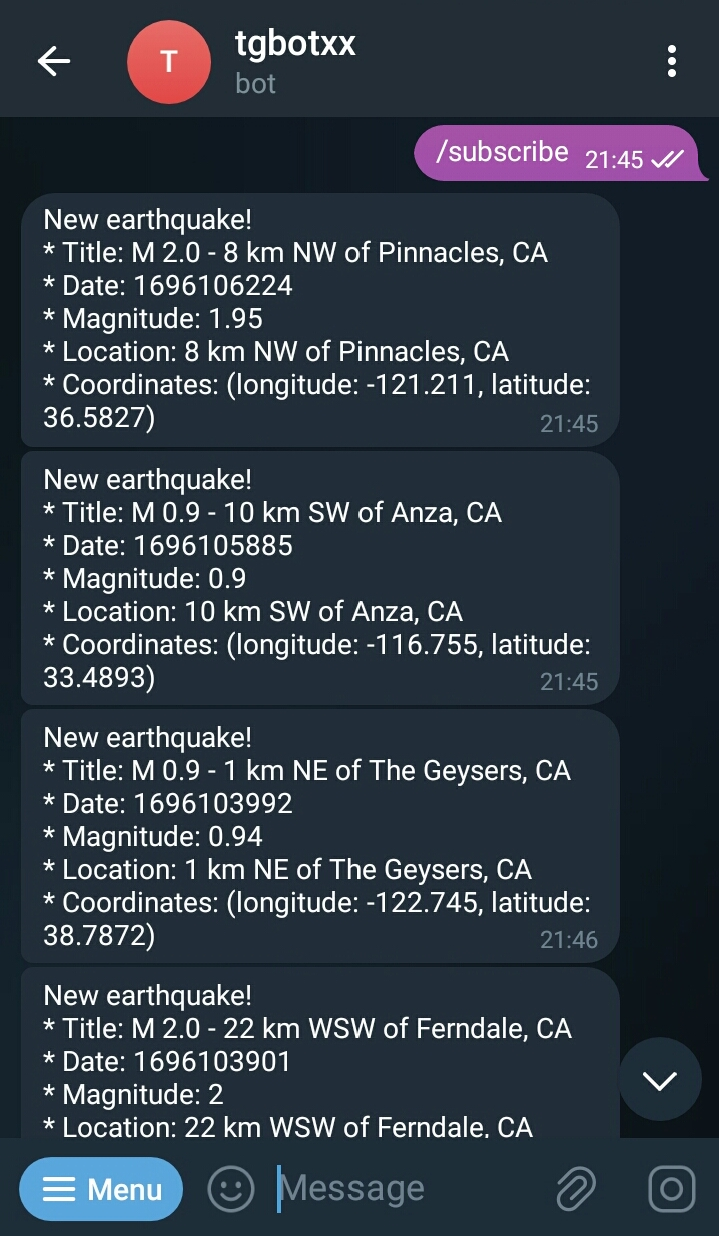
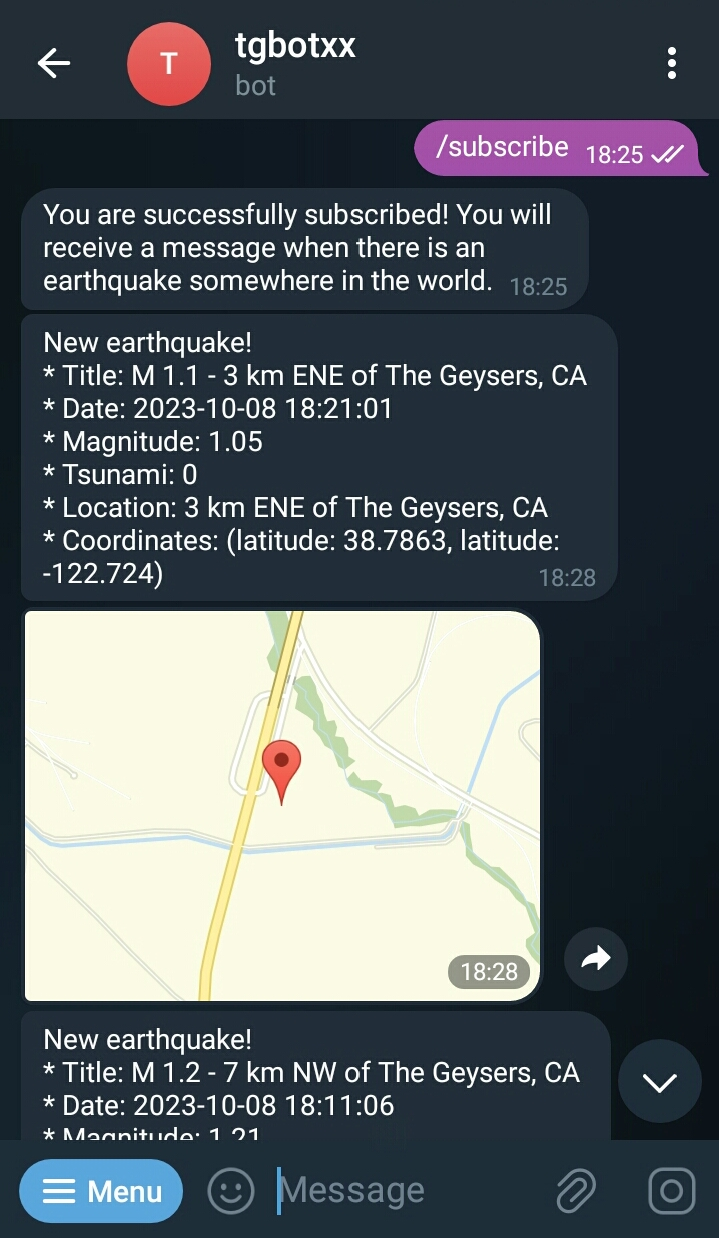
updated examples README.md updated manual_tests sendLocation coords

diff --git a/examples/UrlShortenerBot/main.cpp b/examples/UrlShortenerBot/main.cpp
@@ -1,50 +1,46 @@
-#include <tgbotxx/tgbotxx.hpp>
-#include <iostream>
 #include <cpr/cpr.h>
 #include <csignal>
+#include <iostream>
+#include <regex>
+#include <tgbotxx/tgbotxx.hpp>
 using namespace tgbotxx;
 
 class UrlShortenerBot : public Bot {
-public:
-  UrlShortenerBot(const std::string &token) : Bot(token) {}
+  public:
+    UrlShortenerBot(const std::string& token) : Bot(token) {}
 
-private:
-  void onStart() override
-  {
-    // Drop pending updates
-    api()->deleteWebhook(true);
+  private:
+    void onStart() override {
+      // Drop pending updates
+      api()->deleteWebhook(true);
 
-    std::cout << "Bot " << api()->getMe()->username << " Started\n";
-  }
-
-  void onAnyMessage(const Ptr<Message> &message) override
-  {
-    if(isUrl(message->text))
-    {
-      std::string shortUrl = shortenUrl(message->text);
-      api()->sendMessage(message->chat->id, shortUrl);
+      std::cout << "Bot " << api()->getMe()->username << " Started\n";
     }
-  }
 
-  void onStop() override
-  {
-    std::cout << "Bot " << api()->getMe()->username << " Stopped\n";
-  }
+    void onAnyMessage(const Ptr<Message>& message) override {
+      if (isUrl(message->text)) {
+        std::string shortUrl = shortenUrl(message->text);
+        api()->sendMessage(message->chat->id, shortUrl);
+      }
+    }
 
-protected:
-  bool isUrl(const std::string& text){
-    if(StringUtils::startsWith(text, "http")) return true;
-    if(StringUtils::startsWith(text, "wwww.")) return true;
-    return false;
-  }
+    void onStop() override {
+      std::cout << "Bot " << api()->getMe()->username << " Stopped\n";
+    }
 
-  std::string shortenUrl(const std::string& longUrl){
-    std::ostringstream oss{};
-    oss << "https://ulvis.net/api.php?url="
-        << longUrl << "&private=1";
-    cpr::Response res = cpr::Get(cpr::Url(oss.str()));
-    return res.text;
-  }
+  protected:
+    bool isUrl(const std::string& text) {
+      /// @ref https://stackoverflow.com/questions/66373198/regexp-for-url-validation
+      static std::regex urlRegex(R"(^(?:(?:https?|ftp)://)(?:\S+@)?(?:(?!10(?:\.\d{1,3}){3})(?!127(?:\.\d{1,3}){3})(?!169\.254(?:\.\d{1,3}){2})(?!192\.168(?:\.\d{1,3}){2})(?!172\.(?:1[6-9]|2\d|3[0-1])(?:\.\d{1,3}){2})(?:[1-9]\d?|1\d\d|2[01]\d|22[0-3])(?:\.(?:1?\d{1,2}|2[0-4]\d|25[0-5])){2}(?:\.(?:[1-9]\d?|1\d\d|2[0-4]\d|25[0-4]))|(?:[a-z\u00a1-\uffff0-9]+-)*[a-z\u00a1-\uffff0-9]+(?:\.(?:[a-z\u00a1-\uffff0-9]+-)*[a-z\u00a1-\uffff0-9]+)*(?:\.(?:[a-z\u00a1-\uffff]{2,})))(?::\d{2,5})?(?:/\S*)?$)");
+      return std::regex_match(text, urlRegex);
+    }
+
+    std::string shortenUrl(const std::string& longUrl) {
+      std::ostringstream oss{};
+      oss << "https://ulvis.net/api.php?url=" << longUrl << "&private=1";
+      cpr::Response res = cpr::Get(cpr::Url(oss.str()));
+      return res.text;
+    }
 };
 
 
@@ -56,7 +52,7 @@ int main(int argc, const char *argv[]) {
 
   static std::unique_ptr<UrlShortenerBot> BOT(new UrlShortenerBot(argv[1]));
   std::signal(SIGINT, [](int) { // Graceful Bot exit on CTRL+C
-    if(BOT) {
+    if (BOT) {
       std::cout << "Stopping Bot. Please wait...\n";
       BOT->stop();
     }

diff --git a/examples/EarthquakeBot/main.cpp b/examples/EarthquakeBot/main.cpp
@@ -78,17 +78,21 @@ private:
       return;
 
     /// Alert all subscribed users about this new earthquake events
+    float latitude = eqEvent["geometry"]["coordinates"][1].get<float>();
+    float longitude = eqEvent["geometry"]["coordinates"][0].get<float>();
     std::ostringstream oss{};
     oss << "New earthquake!\n"
         << "* Title: " << eqEvent["properties"]["title"].get<std::string>() << '\n'
         << "* Date: " << DateTimeUtils::toString(eqEvent["properties"]["time"].get<std::time_t>() / 1000) << '\n'
         << "* Magnitude: " << eqEvent["properties"]["mag"].get<float>() << '\n'
+        << "* Tsunami: " << eqEvent["properties"]["tsunami"].get<int>() << '\n'
         << "* Location: " << eqEvent["properties"]["place"].get<std::string>() << '\n'
-        << "* Coordinates: (longitude: " << eqEvent["geometry"]["coordinates"][0].get<float>() << ", latitude: " << eqEvent["geometry"]["coordinates"][1].get<float>() << ")\n";
+        << "* Coordinates: (latitude: " << latitude << ", latitude: " << longitude << ")\n";
         ;
     for (const std::int64_t &chatId : m_chatIds)
     {
       api()->sendMessage(chatId, oss.str());
+      api()->sendLocation(chatId, latitude, longitude);
     }
 
     /// Mark as alerted.

diff --git a/tests/manual_tests.cpp b/tests/manual_tests.cpp
@@ -1,4 +1,3 @@
-#include "tgbotxx/objects/InputMedia.hpp"
 #include <csignal>
 #include <cstdlib>
 #include <iostream>
@@ -164,7 +163,7 @@ class MyBot : public Bot {
         }
       } else if (message->text == "/location") {
         getApi()->sendMessage(message->chat->id, "Sending location ...");
-        getApi()->sendLocation(message->chat->id, 64.9631f, 19.0208f); // Iceland
+        getApi()->sendLocation(message->chat->id, 65.590261f, -17.303453f); // Iceland
       }
     }
 

diff --git a/README.md b/README.md
@@ -20,8 +20,23 @@ Compatible with Telegram [Bot API 6.9 (September 22, 2023)](https://core.telegra
 | Windows (x64)    | [![Windows](https://img.shields.io/github/actions/workflow/status/baderouaich/tgbotxx/build-windows.yml?branch=main)](https://github.com/baderouaich/tgbotxx/actions/workflows/build-windows.yml) |
 | macOS            | [![macOS](https://img.shields.io/github/actions/workflow/status/baderouaich/tgbotxx/build-macos.yml?branch=main)](https://github.com/baderouaich/tgbotxx/actions/workflows/build-macos.yml)
 
-### Example
-see [examples](examples/) for more samples:
+### Examples
+see [examples](examples/) for more:
+
+| Example                                     | Description                                                                                                                  |                                    Preview                                     |
+|:--------------------------------------------|:-----------------------------------------------------------------------------------------------------------------------------|:------------------------------------------------------------------------------:|
+| [EarthquakeBot](examples/EarthquakeBot)     | This example shows how to program a Telegram Bot that will alert you if there is a recent earthquake somewhere in the world. |  <img src="examples/EarthquakeBot/img/alerts.jpg" alt="preview" width="200">   |
+| [Buttons](examples/Buttons)                 | This example shows how to program a basic Telegram Bot which that uses inline keyboard buttons to interact with users.       |     <img src="examples/Buttons/img/preview.jpg" alt="preview" width="200">     |
+| [UrlShortenerBot](examples/UrlShortenerBot) | This example shows how to program Telegram Bot for shortening URLs.                                                          | <img src="examples/UrlShortenerBot/img/preview.jpg" alt="preview" width="200"> |
+
+
+### Usage
+This library is using Inheritance-Based Extensibility technique providing a Bot class which you can inherit from 
+and optionally override callback events depending on your Bot needs.
+
+This also allows you to instantiate multiple bots in the same program. Just make sure each Bot is running on a separate thread.
+
+Usage example: Creating a new Bot called `MyBot` that overrides all callbacks:
 ```cpp
 #include <tgbotxx/tgbotxx.hpp>
 #include <iostream>
@@ -107,9 +122,6 @@ int main() {
   return 0;
 }
 ```
-
-
-
 ### Usage (4 approaches)
 #### 1. `FetchContent` *(recommended)*
 

diff --git a/examples/UrlShortenerBot/README.md b/examples/UrlShortenerBot/README.md
@@ -1,5 +1,5 @@
 ## UrlShortenerBot
-This example shows how to program Telegram Bot for shortening URLs using a [free url shortner JSON Api](https://ulvis.net/developer.html).
+This example shows how to program a Telegram Bot for shortening URLs using a [free url shortner JSON Api](https://ulvis.net/developer.html).
 
 ### Run
 ```bash
@@ -14,3 +14,6 @@ make -j8
 2. Send BotFather a command /newbot
 3. Follow instructions to create a new Bot
 4. After you finish the instructions, you will receive a Bot Token, make sure you keep it secured.
+
+### Preview
+<img src="img/preview.jpg" alt="Preview" width="300"/>

diff --git a/examples/EarthquakeBot/README.md b/examples/EarthquakeBot/README.md
@@ -15,8 +15,11 @@ make -j8
 3. Follow instructions to create a new Bot
 4. After you finish the instructions, you will receive a Bot Token, make sure you keep it secured.
 
-## Commands
+### Commands
 <img src="img/commands.jpg" alt="Commands" width="300"/>
 
-## Alerts
+### Alerts
 <img src="img/alerts.jpg" alt="Alerts" width="300"/>
+
+### Location
+<img src="img/location.jpg" alt="Location" width="300"/>
